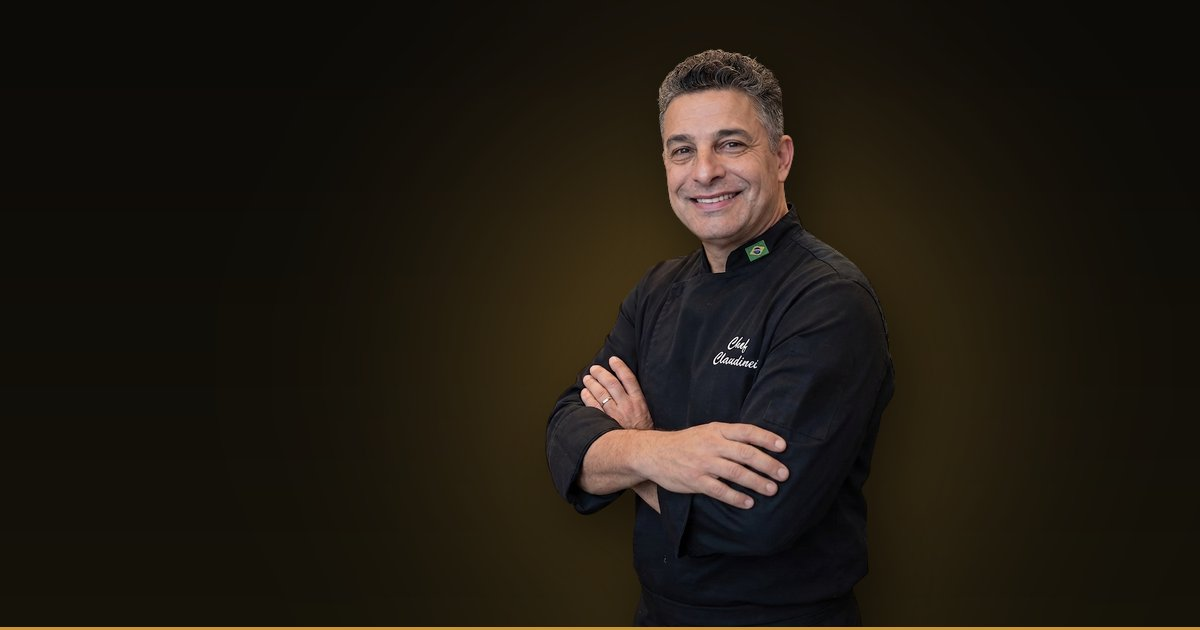
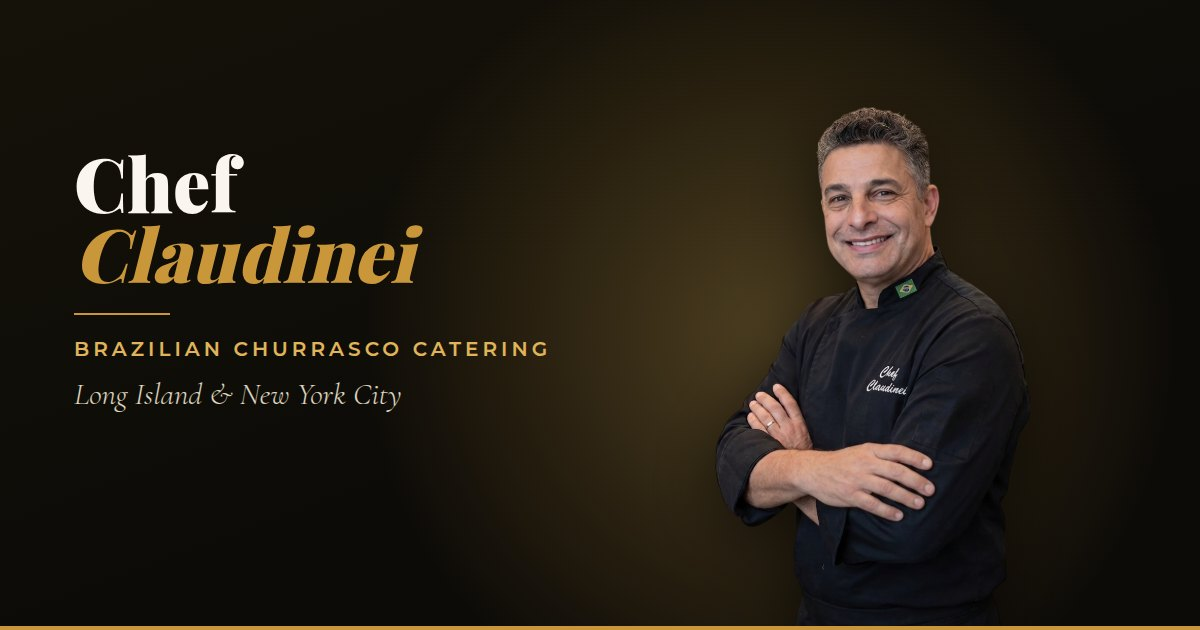
feat: put the brand lockup on the share card

diff --git a/index.html b/index.html
@@ -18,7 +18,7 @@
 <meta property="og:image" content="https://chefclaudinei.com/assets/img/og-cover.jpg">
 <meta property="og:image:width" content="1200">
 <meta property="og:image:height" content="630">
-<meta property="og:image:alt" content="Chef Claudinei in his black chef's coat with the Brazilian flag on the collar">
+<meta property="og:image:alt" content="Chef Claudinei in his black chef's coat beside the words Brazilian Churrasco Catering, Long Island and New York City">
 <meta name="twitter:card" content="summary_large_image">
 
 <link rel="icon" href="/favicon.ico" sizes="16x16 32x32 48x48" type="image/x-icon">
